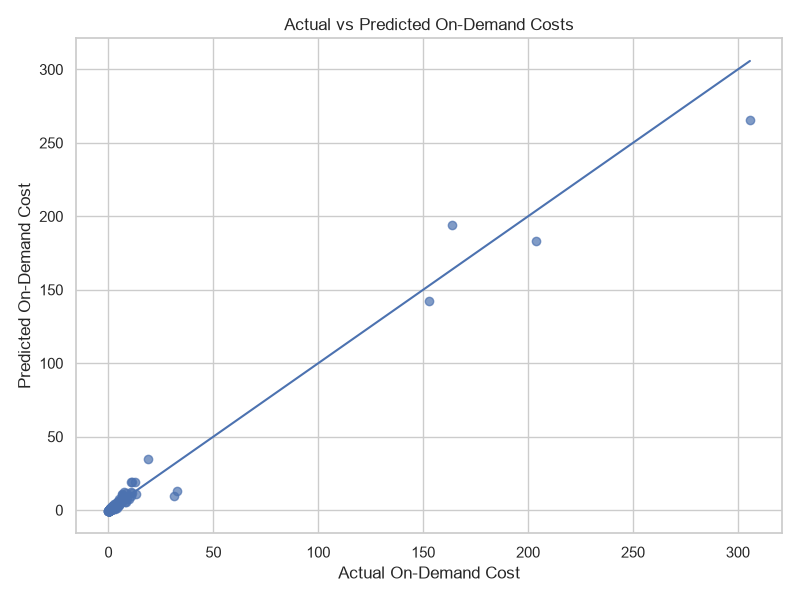
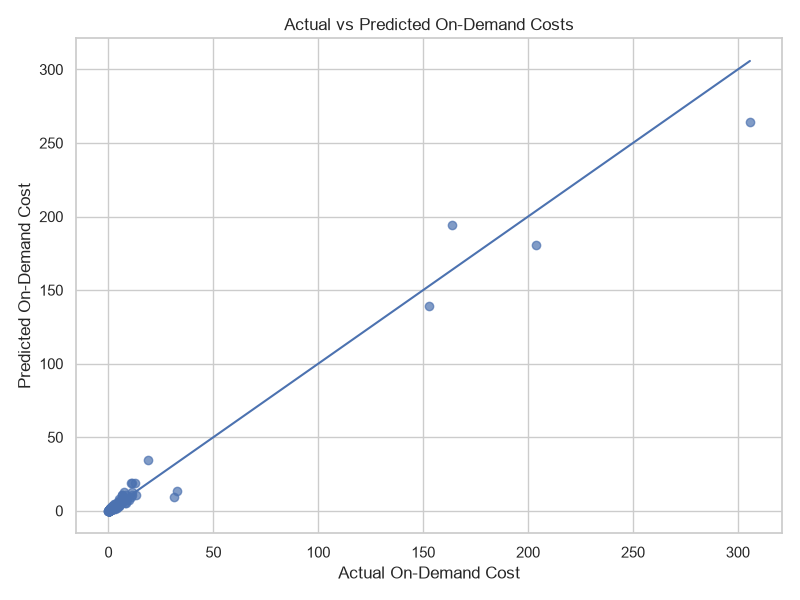
Update EC2 regression model and Streamlit dashboard

diff --git a/ec2_analysis.py b/ec2_analysis.py
@@ -157,7 +157,11 @@ print(
     len(X_test)
 )
 
-model = LinearRegression()
+model = LinearRegression(
+    positive=True,
+    fit_intercept=False
+)
+
 model.fit(X_train, y_train)
 
 print(f"Intercept: {model.intercept_}")
@@ -176,9 +180,15 @@ print(f"Root Mean Squared Error (RMSE): {rmse}")
 plt.figure(figsize=(8, 6))
 
 plt.scatter(y_test, y_pred, alpha=0.7)
+
+max_cost = max(
+    y_test.max(),
+    y_pred.max()
+)
+
 plt.plot(
-    [min(y_test), max(y_test)],
-    [min(y_test), max(y_test)]
+    [0, max_cost],
+    [0, max_cost]
 )
 
 plt.title("Actual vs Predicted On-Demand Costs")
@@ -191,7 +201,16 @@ plt.close()
 
 print("Prediction graph saved as actual_vs_predicted_cost.png")
 
-new_instance = [[4, 2]]
+new_instance = pd.DataFrame(
+    {
+        "Instance Memory": [4],
+        "vCPUs": [2]
+    }
+)
+
 predicted_cost = model.predict(new_instance)
 
-print(f"Predicted On-Demand Cost for 4 GiB, 2 vCPUs: ${predicted_cost[0]:.4f}")
+print(
+    f"Predicted On-Demand Cost for 4 GiB, 2 vCPUs: "
+    f"${predicted_cost[0]:.4f}"
+)

diff --git a/app.py b/app.py
@@ -427,7 +427,11 @@ X_train, X_test, y_train, y_test = train_test_split(
     random_state=42
 )
 
-model = LinearRegression()
+model = LinearRegression(
+    positive=True,
+    fit_intercept=False
+)
+
 model.fit(X_train, y_train)
 
 y_pred = model.predict(X_test)
@@ -503,11 +507,6 @@ fig = px.scatter(
     title="Actual vs Predicted On-Demand Costs"
 )
 
-min_cost = min(
-    prediction_results["Actual Cost"].min(),
-    prediction_results["Predicted Cost"].min()
-)
-
 max_cost = max(
     prediction_results["Actual Cost"].max(),
     prediction_results["Predicted Cost"].max()
@@ -515,8 +514,8 @@ max_cost = max(
 
 fig.add_shape(
     type="line",
-    x0=min_cost,
-    y0=min_cost,
+    x0=0,
+    y0=0,
     x1=max_cost,
     y1=max_cost
 )
